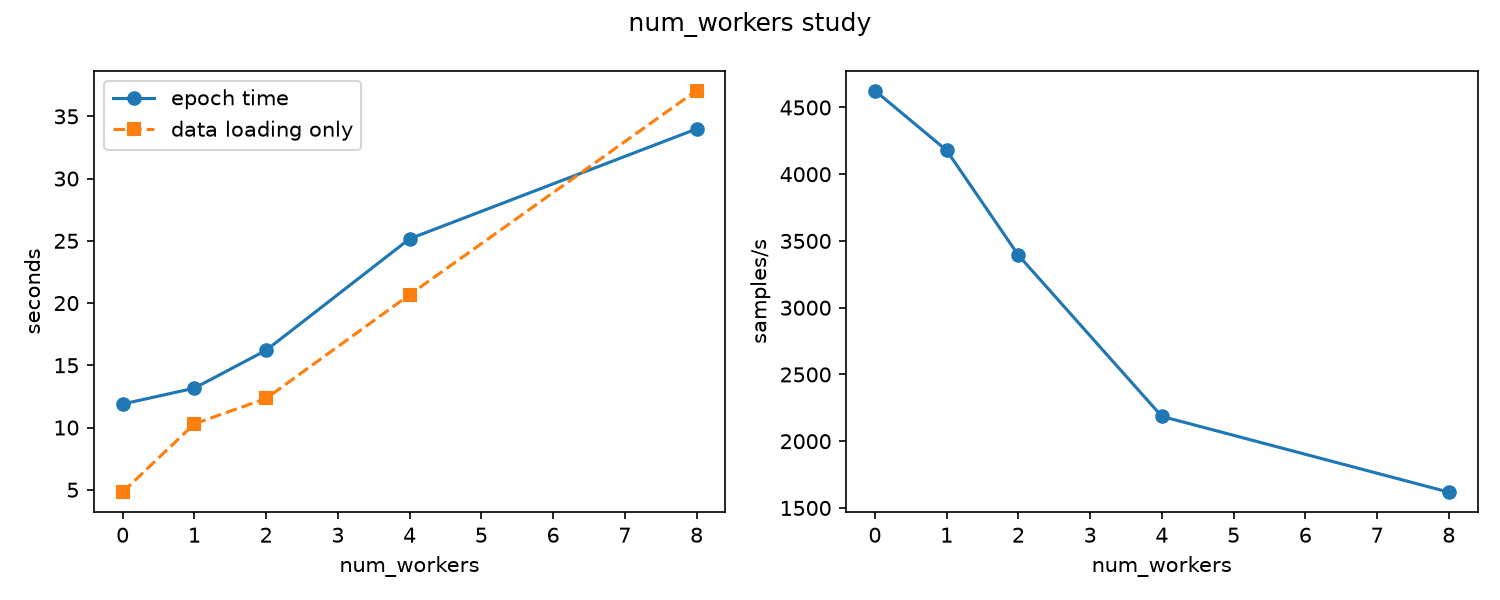
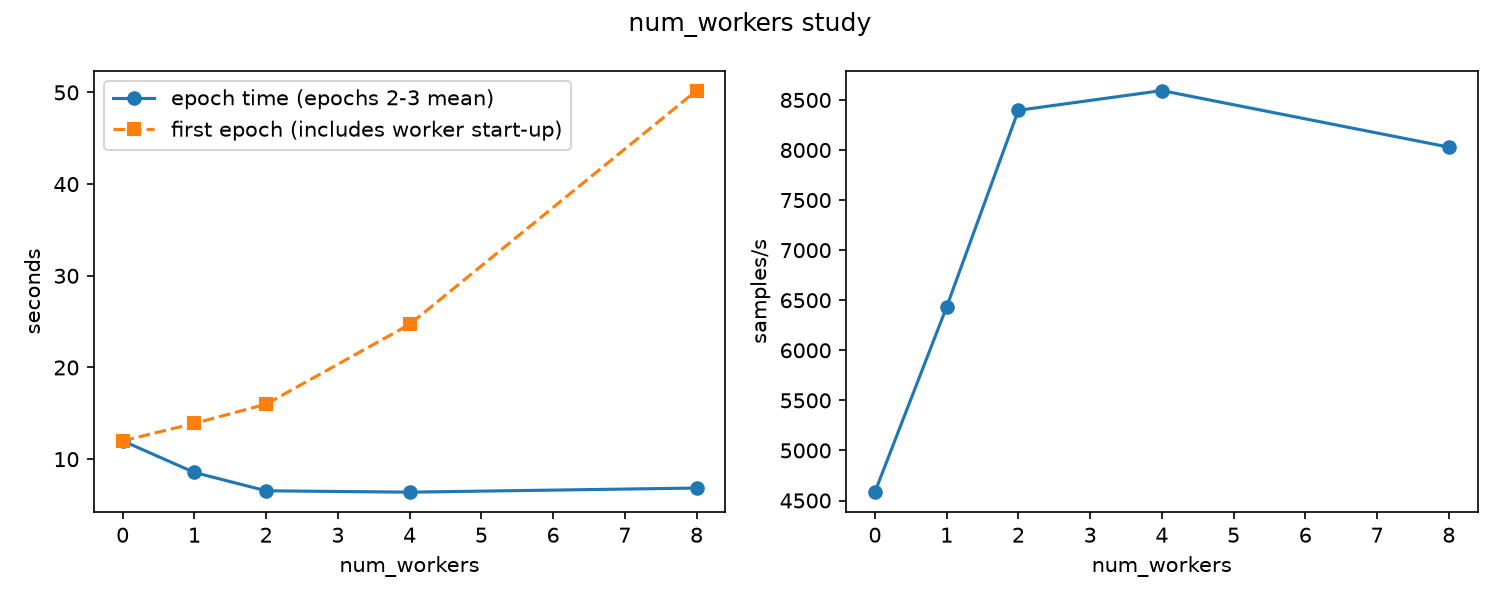
Add files via upload

diff --git a/Lab_06_73686/results/workers_table.md b/Lab_06_73686/results/workers_table.md
@@ -1,7 +1,7 @@
-| num_workers | data_only_s | epoch_s | data_share | samples_per_s |
-|---|---|---|---|---|
-| 0 | 4.8077 | 11.8881 | 0.4044 | 4626.4733 |
-| 1 | 10.2964 | 13.1620 | 0.7823 | 4178.7092 |
-| 2 | 12.3349 | 16.2077 | 0.7610 | 3393.4479 |
-| 4 | 20.6673 | 25.1602 | 0.8214 | 2185.9906 |
-| 8 | 37.0694 | 33.9863 | 1.0907 | 1618.2993 |
+| num_workers | epoch_s | first_epoch_s | samples_per_s |
+|---|---|---|---|
+| 0 | 12.00 | 12.0 | 4583 |
+| 1 | 8.55 | 13.9 | 6433 |
+| 2 | 6.55 | 16.0 | 8397 |
+| 4 | 6.40 | 24.7 | 8594 |
+| 8 | 6.85 | 50.2 | 8029 |
